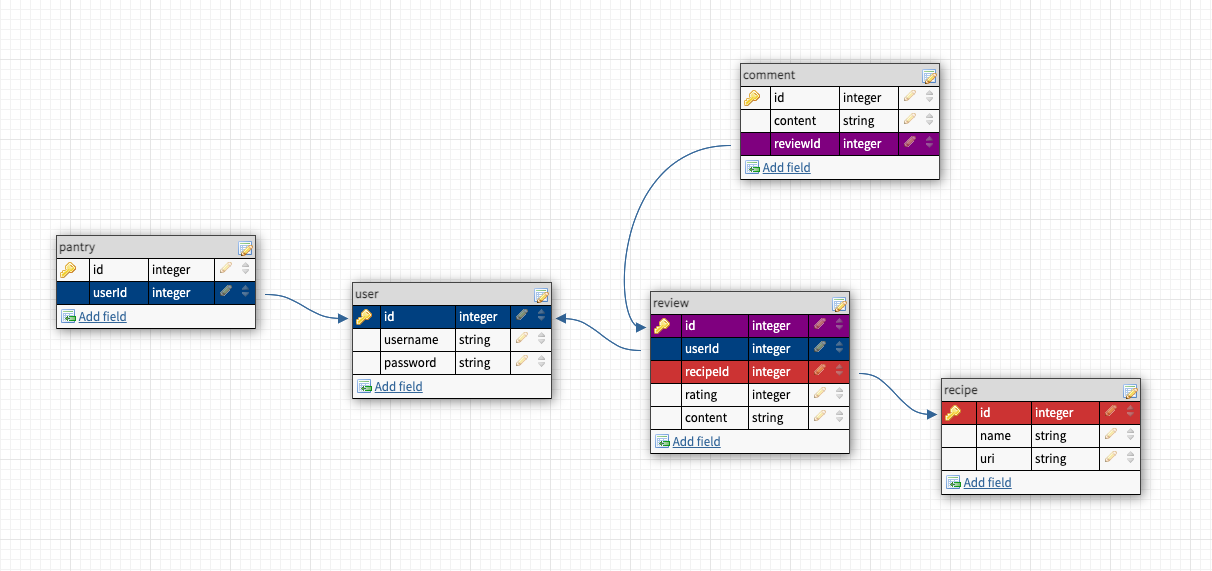
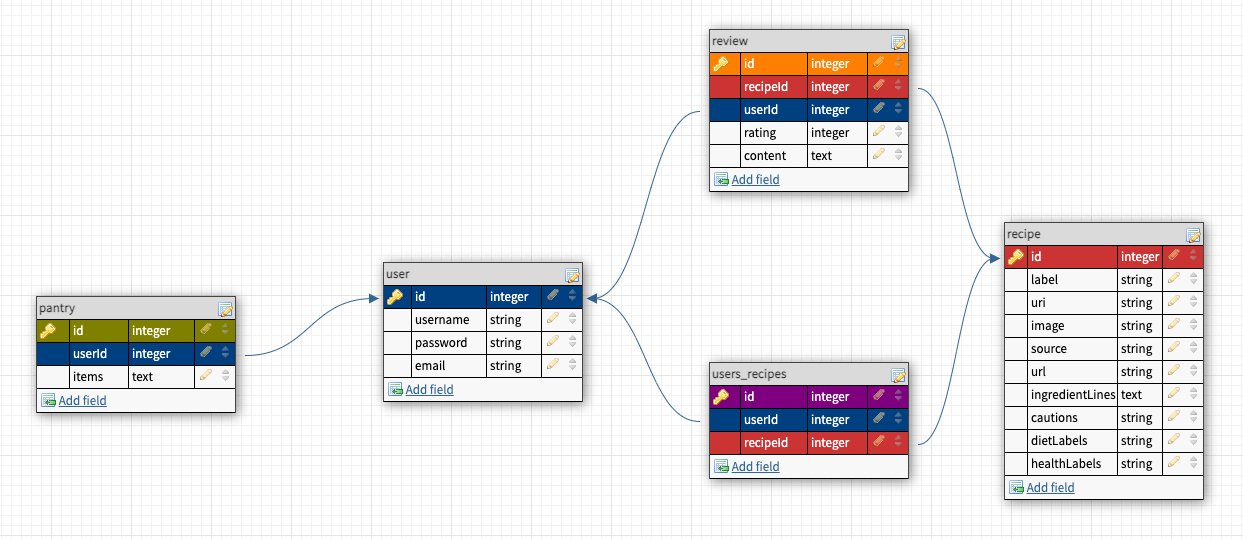
changed ERD/models/migrations

diff --git a/dbTest.js b/dbTest.js
@@ -1,15 +1,31 @@
-const axios = require('axios')
-require('dotenv').config()
+const db = require('./models')
+// const axios = require('axios')
+// require('dotenv').config()
 
-const EDAMAM_APP_ID = process.env.EDAMAM_APP_ID
-const EDAMAM_APP_KEY = process.env.EDAMAM_APP_KEY
+// const EDAMAM_APP_ID = process.env.EDAMAM_APP_ID
+// const EDAMAM_APP_KEY = process.env.EDAMAM_APP_KEY
+
+// async function test() {
+//     try {   
+//         const results = await axios.get(`https://api.edamam.com/search?q=ground chuck+tomatoes+potatoes+cheddar&app_id=${EDAMAM_APP_ID}&app_key=${EDAMAM_APP_KEY}`)
+//         console.log(results.data)
+//     } catch(error) {
+//         console.log(error)
+//     }
+// }
+// test()
 
 async function test() {
-    try {   
-        const results = await axios.get(`https://api.edamam.com/search?q=ground chuck+tomatoes+potatoes+cheddar&app_id=${EDAMAM_APP_ID}&app_key=${EDAMAM_APP_KEY}`)
-        console.log(results.data)
-    } catch(error) {
+    try {
+        const user = await db.user.findOne({ 
+            where: {
+                id: 4
+            }, 
+            include: [db.recipe, db.review]
+        })
+        console.log(user)
+    } catch (error) {
         console.log(error)
     }
 }
-// test()
+test()

diff --git a/models/users_recipes.js b/models/users_recipes.js
@@ -3,7 +3,7 @@ const {
   Model
 } = require('sequelize');
 module.exports = (sequelize, DataTypes) => {
-  class comment extends Model {
+  class users_recipes extends Model {
     /**
      * Helper method for defining associations.
      * This method is not a part of Sequelize lifecycle.
@@ -11,17 +11,14 @@ module.exports = (sequelize, DataTypes) => {
      */
     static associate(models) {
       // define association here
-      models.comment.belongsToMany(models.user, {through:"review"})
-      models.comment.belongsToMany(models.recipe, {through:"review"})
-      models.comment.hasMany(models.comment)
     }
   };
-  comment.init({
-    reviewId: DataTypes.INTEGER,
-    content: DataTypes.TEXT
+  users_recipes.init({
+    userId: DataTypes.INTEGER,
+    recipeId: DataTypes.INTEGER
   }, {
     sequelize,
-    modelName: 'comment',
+    modelName: 'users_recipes',
   });
-  return comment;
+  return users_recipes;
 };

diff --git a/migrations/20210304223317-create-users-recipes.js b/migrations/20210304223317-create-users-recipes.js
@@ -1,18 +1,18 @@
 'use strict';
 module.exports = {
   up: async (queryInterface, Sequelize) => {
-    await queryInterface.createTable('comments', {
+    await queryInterface.createTable('users_recipes', {
       id: {
         allowNull: false,
         autoIncrement: true,
         primaryKey: true,
         type: Sequelize.INTEGER
       },
-      reviewId: {
+      userId: {
         type: Sequelize.INTEGER
       },
-      content: {
-        type: Sequelize.TEXT
+      recipeId: {
+        type: Sequelize.INTEGER
       },
       createdAt: {
         allowNull: false,
@@ -25,6 +25,6 @@ module.exports = {
     });
   },
   down: async (queryInterface, Sequelize) => {
-    await queryInterface.dropTable('comments');
+    await queryInterface.dropTable('users_recipes');
   }
 };

diff --git a/controllers/reviewsControllers.js b/controllers/reviewsControllers.js
@@ -8,6 +8,17 @@ router.post('/', async (req, res) => {
         const [newReview, created] = await db.recipe.findOrCreate({
             where: {
                 uri: req.body.uri
+            },
+            defaults: {
+                label: req.body.label,
+                uri: req.body.uri,
+                image: req.body.image,
+                source: req.body.source,
+                url: req.body.url,
+                ingredientLines: req.body.ingredientLines,
+                cautions: req.body.cautions,
+                dietLabels: req.body.dietLabels,
+                healthLabels: req.body.healthLabels,
             }
         })
         res.locals.user.addRecipe(newReview)

diff --git a/models/review.js b/models/review.js
@@ -11,13 +11,12 @@ module.exports = (sequelize, DataTypes) => {
      */
     static associate(models) {
       // define association here
-      models.review.hasMany(models.comment)
     }
   };
   review.init({
     userId: DataTypes.INTEGER,
     recipeId: DataTypes.INTEGER,
-    rating: DataTypes.STRING,
+    rating: DataTypes.INTEGER,
     content: DataTypes.TEXT
   }, {
     sequelize,

diff --git a/models/user.js b/models/user.js
@@ -11,8 +11,6 @@ module.exports = (sequelize, DataTypes) => {
      */
     static associate(models) {
       // define association here
-      models.user.belongsToMany(models.recipe, {through:"review"})
-      models.user.hasOne(models.pantry)
     }
   };
   user.init({

diff --git a/models/recipe.js b/models/recipe.js
@@ -11,7 +11,6 @@ module.exports = (sequelize, DataTypes) => {
      */
     static associate(models) {
       // define association here
-      models.recipe.belongsToMany(models.user, {through:"review"})
     }
   };
   recipe.init({

diff --git a/migrations/20210304223426-create-review.js b/migrations/20210304223426-create-review.js
@@ -15,7 +15,7 @@ module.exports = {
         type: Sequelize.INTEGER
       },
       rating: {
-        type: Sequelize.STRING
+        type: Sequelize.INTEGER
       },
       content: {
         type: Sequelize.TEXT

diff --git a/public/style.css b/public/style.css
@@ -1,3 +1,12 @@
 body {
-    background-color: blanchedalmond;
+    background-color: #fff1cc;
+    margin: 0;
+}
+header {
+    background-color: #b03346;
+    height: 40px;
+
+}
+.container {
+    margin: 30px;
 }
